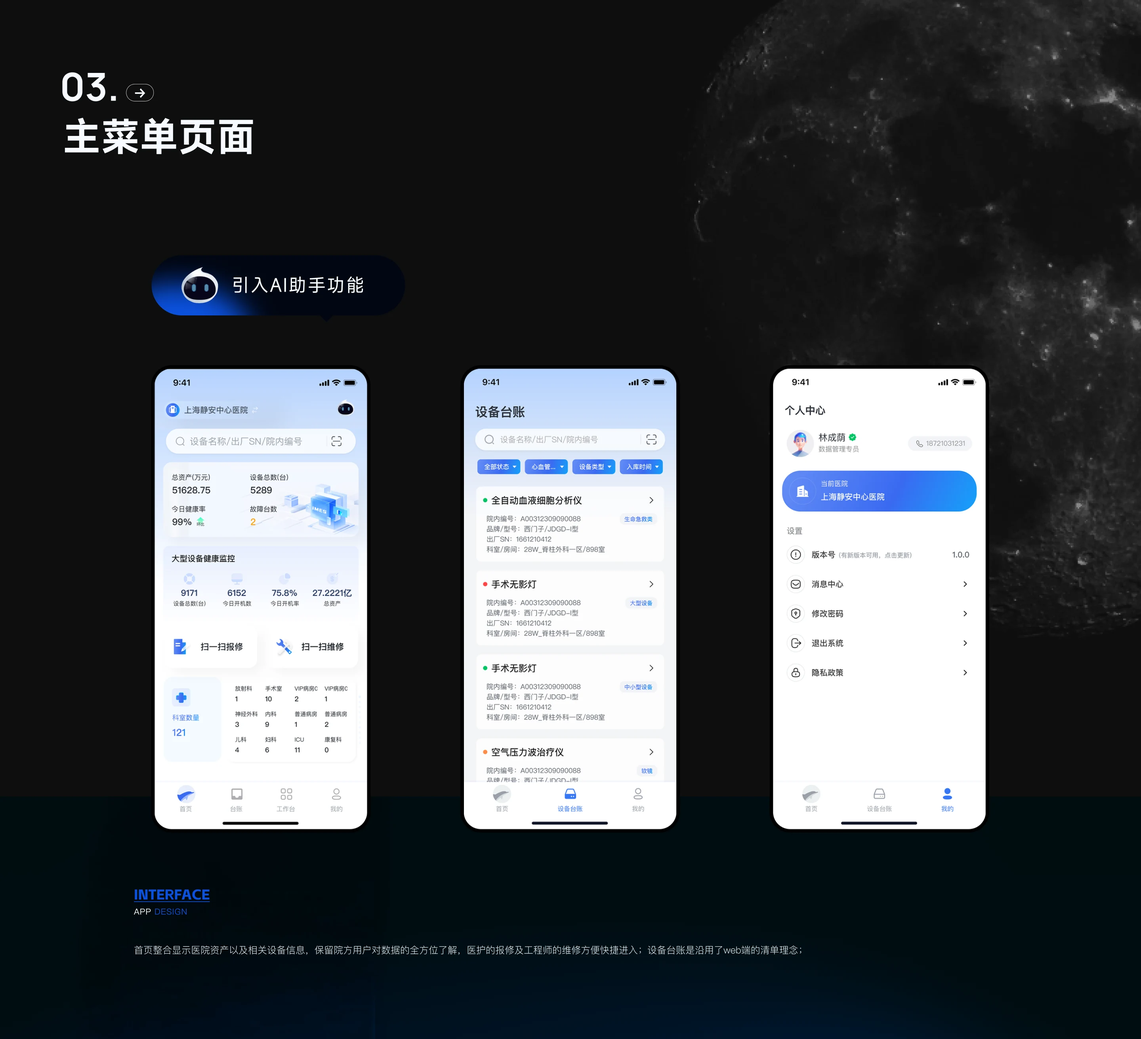
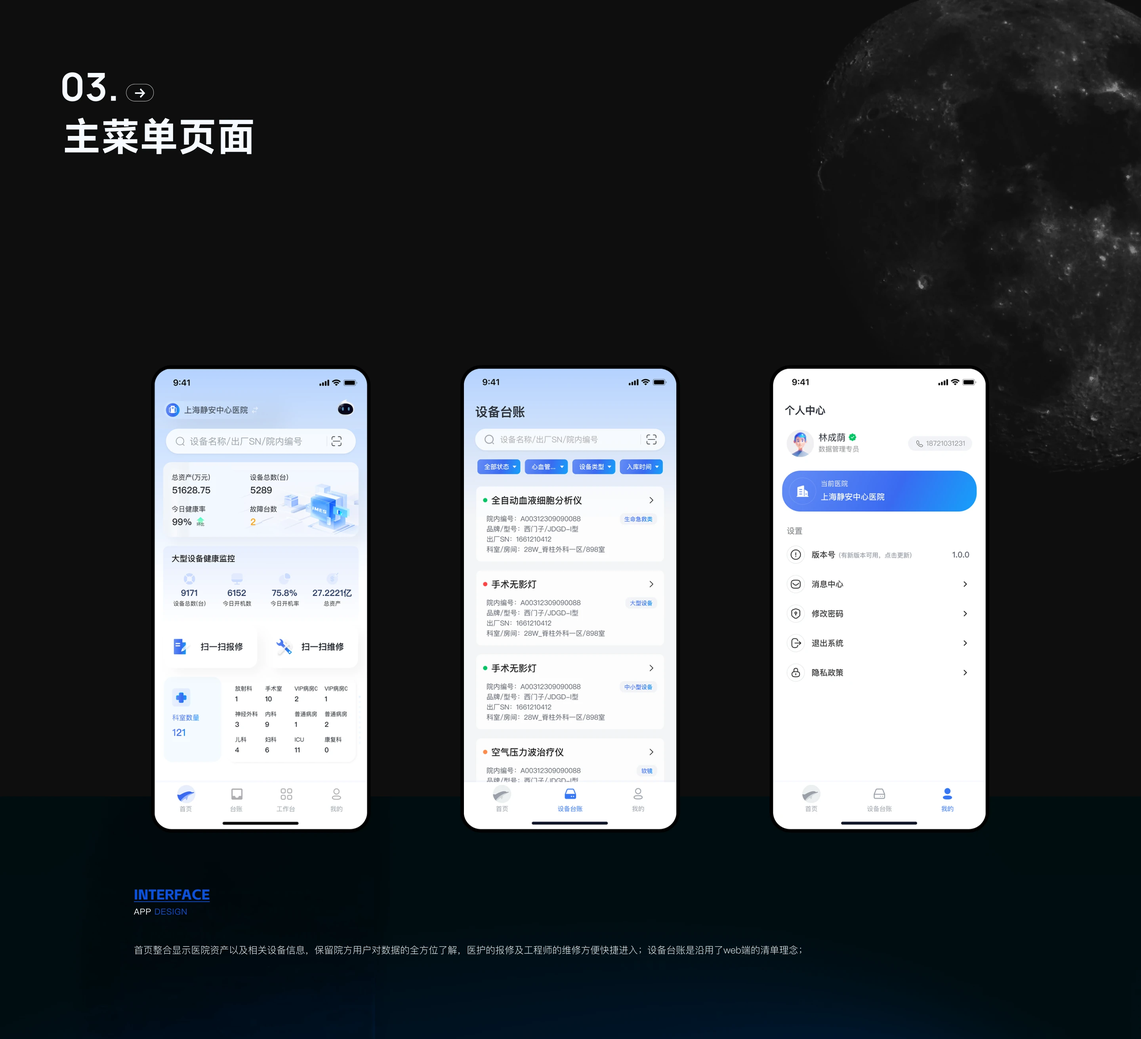
darkandaigif

diff --git a/index.html b/index.html
@@ -11,11 +11,11 @@
 
 <style media="all">*,:before,:after{box-sizing:border-box}body{-webkit-font-smoothing:antialiased}textarea:focus-visible{outline:none}button{-webkit-font-smoothing:inherit;-moz-osx-font-smoothing:inherit;-webkit-appearance:none}*{margin:0;padding:0}a{color:inherit;-webkit-text-decoration:inherit;text-decoration:inherit}input{font:inherit;background-color:inherit;border:none;outline:none}button{font:inherit;color:inherit;background:0 0;border-style:none;width:auto;line-height:normal;overflow:visible}textarea,select{font:inherit;background-color:inherit}img,picture,video,canvas,svg{display:block}[data-reaction-click]{cursor:pointer}[data-visible=false]{display:none!important}.before-hidden:before,.after-hidden:after{display:none}.before-visible:before,.after-visible:after{content:""}::placeholder{color:inherit;opacity:.54}body *{scrollbar-width:none}body ::-webkit-scrollbar{display:none}[name=honey-pot-field]{display:none!important}.text{white-space:pre-wrap;overflow-wrap:break-word}.pointer-events-none{pointer-events:none}</style>
 
-<style>#_{min-height:100vh;display:grid}#Merlin_2025_{border-radius:0;flex-flow:column;justify-content:flex-start;align-items:start;row-gap:0;width:100%;margin:0 auto 0 0;padding:0;display:flex;position:relative}#_100_{--f2w-order:0;aspect-ratio:1.78;border-radius:0;flex-shrink:0;width:auto;height:810px;margin:0;position:relative;overflow:hidden}#__0{object-fit:cover;width:100%;height:100%;position:absolute;inset:0}#_200_{--f2w-order:1;aspect-ratio:1.63;border-radius:0;flex-shrink:0;width:auto;height:884px;margin:0;position:relative;overflow:hidden}#__1{object-fit:cover;width:100%;height:100%;position:absolute;inset:0}#_300_{--f2w-order:2;aspect-ratio:1.37;border-radius:0;flex-shrink:0;width:auto;height:1050px;margin:0;position:relative;overflow:hidden}#__2{object-fit:cover;width:100%;height:100%;position:absolute;inset:0}#_401{--f2w-order:3;aspect-ratio:1.52;border-radius:0;flex-shrink:0;width:auto;height:945px;margin:0;position:relative;overflow:hidden}#__3{object-fit:cover;width:100%;height:100%;position:absolute;inset:0}#_402{--f2w-order:4;aspect-ratio:1.78;border-radius:0;flex-shrink:0;width:auto;height:810px;margin:0;position:relative;overflow:hidden}#__4{object-fit:cover;width:100%;height:100%;position:absolute;inset:0}#_403{--f2w-order:5;aspect-ratio:1.71;border-radius:0;flex-shrink:0;width:auto;height:840px;margin:0;position:relative;overflow:hidden}#__5{object-fit:cover;width:100%;height:100%;position:absolute;inset:0}#_404{--f2w-order:6;aspect-ratio:1.51;border-radius:0;flex-shrink:0;width:auto;height:956px;margin:0;position:relative;overflow:hidden}#__6{object-fit:cover;width:100%;height:100%;position:absolute;inset:0}#_405{--f2w-order:7;aspect-ratio:1.73;border-radius:0;flex-shrink:0;width:auto;height:832px;margin:0;position:relative;overflow:hidden}#__7{object-fit:cover;width:100%;height:100%;position:absolute;inset:0}#_406{--f2w-order:8;aspect-ratio:1.53;border-radius:0;flex-shrink:0;width:auto;height:944px;margin:0;position:relative;overflow:hidden}#__8{object-fit:cover;width:100%;height:100%;position:absolute;inset:0}#_407{--f2w-order:9;aspect-ratio:1.71;border-radius:0;flex-shrink:0;width:auto;height:840px;margin:0;position:relative;overflow:hidden}#__9{object-fit:cover;width:100%;height:100%;position:absolute;inset:0}#_408{--f2w-order:10;aspect-ratio:15.16;border-radius:0;flex-shrink:0;width:auto;height:95px;margin:0;position:relative;overflow:hidden}#__10{object-fit:cover;width:100%;height:100%;position:absolute;inset:0}#_409{--f2w-order:11;aspect-ratio:1.71;border-radius:0;flex-shrink:0;width:auto;height:840px;margin:0;position:relative;overflow:hidden}#__11{object-fit:cover;width:100%;height:100%;position:absolute;inset:0}#_410{--f2w-order:12;aspect-ratio:.96;border-radius:0;flex-shrink:0;width:auto;height:1500px;margin:0;position:relative;overflow:hidden}#__12{object-fit:cover;width:100%;height:100%;position:absolute;inset:0}#_411{--f2w-order:13;aspect-ratio:1.62;border-radius:0;flex-shrink:0;width:auto;height:889px;margin:0;position:relative;overflow:hidden}#__13{object-fit:cover;width:100%;height:100%;position:absolute;inset:0}#_412{--f2w-order:14;aspect-ratio:1.8;border-radius:0;flex-shrink:0;width:auto;height:800px;margin:0;position:relative;overflow:hidden}#__14{object-fit:cover;width:100%;height:100%;position:absolute;inset:0}#_413{--f2w-order:15;aspect-ratio:1.97;border-radius:0;flex-shrink:0;width:auto;height:730px;margin:0;position:relative;overflow:hidden}#__15{object-fit:cover;width:100%;height:100%;position:absolute;inset:0}#_414{--f2w-order:16;aspect-ratio:1.41;border-radius:0;flex-shrink:0;width:auto;height:1020px;margin:0;position:relative;overflow:hidden}#__16{object-fit:cover;width:100%;height:100%;position:absolute;inset:0}#_415{--f2w-order:17;aspect-ratio:1.44;border-radius:0;flex-shrink:0;width:auto;height:1000px;margin:0;position:relative;overflow:hidden}#__17{object-fit:cover;width:100%;height:100%;position:absolute;inset:0}#_416{--f2w-order:18;aspect-ratio:1.66;border-radius:0;flex-shrink:0;width:auto;height:866px;margin:0;position:relative;overflow:hidden}#__18{object-fit:cover;width:100%;height:100%;position:absolute;inset:0}#_417{--f2w-order:19;aspect-ratio:1.8;border-radius:0;flex-shrink:0;width:auto;height:800px;margin:0;position:relative;overflow:hidden}#__19{object-fit:cover;width:100%;height:100%;position:absolute;inset:0}#_418{--f2w-order:20;aspect-ratio:2.11;border-radius:0;flex-shrink:0;width:auto;height:681px;margin:0;position:relative;overflow:hidden}#__20{object-fit:cover;width:100%;height:100%;position:absolute;inset:0}#_500_{--f2w-order:21;aspect-ratio:1.37;border-radius:0;flex-shrink:0;width:auto;height:1050px;margin:0;position:relative;overflow:hidden}#__21{object-fit:cover;width:100%;height:100%;position:absolute;inset:0}#_601{--f2w-order:22;aspect-ratio:1.78;border-radius:0;flex-shrink:0;width:auto;height:810px;margin:0;position:relative;overflow:hidden}#__22{object-fit:cover;width:100%;height:100%;position:absolute;inset:0}#_602{--f2w-order:23;aspect-ratio:1.78;border-radius:0;flex-shrink:0;width:auto;height:810px;margin:0;position:relative;overflow:hidden}#__23{object-fit:cover;width:100%;height:100%;position:absolute;inset:0}#_603{--f2w-order:24;aspect-ratio:1.78;border-radius:0;flex-shrink:0;width:auto;height:810px;margin:0;position:relative;overflow:hidden}#__24{object-fit:cover;width:100%;height:100%;position:absolute;inset:0}#_604{--f2w-order:25;aspect-ratio:1.78;border-radius:0;flex-shrink:0;width:auto;height:810px;margin:0;position:relative;overflow:hidden}#__25{object-fit:cover;width:100%;height:100%;position:absolute;inset:0}#_605{--f2w-order:26;aspect-ratio:1.78;border-radius:0;flex-shrink:0;width:auto;height:810px;margin:0;position:relative;overflow:hidden}#__26{object-fit:cover;width:100%;height:100%;position:absolute;inset:0}#_606{--f2w-order:27;aspect-ratio:1.78;border-radius:0;flex-shrink:0;width:auto;height:810px;margin:0;position:relative;overflow:hidden}#__27{object-fit:cover;width:100%;height:100%;position:absolute;inset:0}#_607{--f2w-order:28;aspect-ratio:1.01;border-radius:0;flex-shrink:0;width:auto;height:1426px;margin:0;position:relative;overflow:hidden}#__28{object-fit:cover;width:100%;height:100%;position:absolute;inset:0}#_608{--f2w-order:29;aspect-ratio:1.35;border-radius:0;flex-shrink:0;width:auto;height:1069px;margin:0;position:relative;overflow:hidden}#__29{object-fit:cover;width:100%;height:100%;position:absolute;inset:0}#_609{--f2w-order:30;aspect-ratio:1.09;border-radius:0;flex-shrink:0;width:auto;height:1325px;margin:0;position:relative;overflow:hidden}#__30{object-fit:cover;width:100%;height:100%;position:absolute;inset:0}#_610{--f2w-order:31;aspect-ratio:1.08;border-radius:0;flex-shrink:0;width:auto;height:1335px;margin:0;position:relative;overflow:hidden}#__31{object-fit:cover;width:100%;height:100%;position:absolute;inset:0}#_611{--f2w-order:32;aspect-ratio:1.1;border-radius:0;flex-shrink:0;width:auto;height:1311px;margin:0;position:relative;overflow:hidden}#__32{object-fit:cover;width:100%;height:100%;position:absolute;inset:0}#_612{--f2w-order:33;aspect-ratio:1.33;border-radius:0;flex-shrink:0;width:auto;height:1083px;margin:0;position:relative;overflow:hidden}#__33{object-fit:cover;width:100%;height:100%;position:absolute;inset:0}#_613{--f2w-order:34;aspect-ratio:1.08;border-radius:0;flex-shrink:0;width:auto;height:1334px;margin:0;position:relative;overflow:hidden}#__34{object-fit:cover;width:100%;height:100%;position:absolute;inset:0}#_614{--f2w-order:35;aspect-ratio:1.44;border-radius:0;flex-shrink:0;width:auto;height:1000px;margin:0;position:relative;overflow:hidden}#__35{object-fit:cover;width:100%;height:100%;position:absolute;inset:0}#_615{--f2w-order:36;aspect-ratio:1.47;border-radius:0;flex-shrink:0;width:auto;height:977px;margin:0;position:relative;overflow:hidden}#__36{object-fit:cover;width:100%;height:100%;position:absolute;inset:0}#_616{--f2w-order:37;aspect-ratio:1.78;border-radius:0;flex-shrink:0;width:auto;height:810px;margin:0;position:relative;overflow:hidden}#__37{object-fit:cover;width:100%;height:100%;position:absolute;inset:0}#_617{--f2w-order:38;aspect-ratio:1.54;border-radius:0;flex-shrink:0;width:auto;height:938px;margin:0;position:relative;overflow:hidden}#__38{object-fit:cover;width:100%;height:100%;position:absolute;inset:0}#_700_{--f2w-order:39;aspect-ratio:1.37;border-radius:0;flex-shrink:0;width:auto;height:1050px;margin:0;position:relative;overflow:hidden}#__39{object-fit:cover;width:100%;height:100%;position:absolute;inset:0}#_801{--f2w-order:40;aspect-ratio:1.08;border-radius:0;flex-shrink:0;width:auto;height:1337px;margin:0;position:relative;overflow:hidden}#__40{object-fit:cover;width:100%;height:100%;position:absolute;inset:0}#_802{--f2w-order:41;aspect-ratio:1.11;border-radius:0;flex-shrink:0;width:auto;height:1297px;margin:0;position:relative;overflow:hidden}#__41{object-fit:cover;width:100%;height:100%;position:absolute;inset:0}#_803{--f2w-order:42;aspect-ratio:1.59;border-radius:0;flex-shrink:0;width:auto;height:903px;margin:0;position:relative;overflow:hidden}#__42{object-fit:cover;width:100%;height:100%;position:absolute;inset:0}#_804{--f2w-order:43;aspect-ratio:1.8;border-radius:0;flex-shrink:0;width:auto;height:802px;margin:0;position:relative;overflow:hidden}#__43{object-fit:cover;width:100%;height:100%;position:absolute;inset:0}#_805{--f2w-order:44;aspect-ratio:1.6;border-radius:0;flex-shrink:0;width:auto;height:900px;margin:0;position:relative;overflow:hidden}#__44{object-fit:cover;width:100%;height:100%;position:absolute;inset:0}#_806{--f2w-order:45;aspect-ratio:1.78;border-radius:0;flex-shrink:0;width:auto;height:810px;margin:0;position:relative;overflow:hidden}#__45{object-fit:cover;width:100%;height:100%;position:absolute;inset:0}#_807{--f2w-order:46;aspect-ratio:1.67;border-radius:0;flex-shrink:0;width:auto;height:863px;margin:0;position:relative;overflow:hidden}#__46{object-fit:cover;width:100%;height:100%;position:absolute;inset:0}#_808{--f2w-order:47;aspect-ratio:1.19;border-radius:0;flex-shrink:0;width:auto;height:1209px;margin:0;position:relative;overflow:hidden}#__47{object-fit:cover;width:100%;height:100%;position:absolute;inset:0}#_809{--f2w-order:48;aspect-ratio:1.07;border-radius:0;flex-shrink:0;width:auto;height:1344px;margin:0;position:relative;overflow:hidden}#__48{object-fit:cover;width:100%;height:100%;position:absolute;inset:0}#_810{--f2w-order:0;aspect-ratio:1.44;border-radius:0;flex-shrink:0;width:auto;height:1000px;margin:0;position:relative;overflow:hidden}#__49{object-fit:cover;width:100%;height:100%;position:absolute;inset:0}#_811{--f2w-order:1;aspect-ratio:1.52;border-radius:0;flex-shrink:0;width:auto;height:946px;margin:0;position:relative;overflow:hidden}#__50{object-fit:cover;width:100%;height:100%;position:absolute;inset:0}#_812{--f2w-order:2;aspect-ratio:2.04;border-radius:0;flex-shrink:0;width:auto;height:705px;margin:0;position:relative;overflow:hidden}#__51{object-fit:cover;width:100%;height:100%;position:absolute;inset:0}#_813{--f2w-order:3;aspect-ratio:1.8;border-radius:0;flex-shrink:0;width:auto;height:800px;margin:0;position:relative;overflow:hidden}#__52{object-fit:cover;width:100%;height:100%;position:absolute;inset:0}#_814{--f2w-order:4;aspect-ratio:1.66;border-radius:0;flex-shrink:0;width:auto;height:869px;margin:0;position:relative;overflow:hidden}#__53{object-fit:cover;width:100%;height:100%;position:absolute;inset:0}#_900_{--f2w-order:5;aspect-ratio:1.37;border-radius:0;flex-shrink:0;width:auto;height:1050px;margin:0;position:relative;overflow:hidden}#__54{object-fit:cover;width:100%;height:100%;position:absolute;inset:0}#_1001{--f2w-order:6;aspect-ratio:1.78;border-radius:0;flex-shrink:0;width:auto;height:810px;margin:0;position:relative;overflow:hidden}#__55{object-fit:cover;width:100%;height:100%;position:absolute;inset:0}#_1002{--f2w-order:7;aspect-ratio:1.8;border-radius:0;flex-shrink:0;width:auto;height:800px;margin:0;position:relative;overflow:hidden}#__56{object-fit:cover;width:100%;height:100%;position:absolute;inset:0}#_1003{--f2w-order:8;aspect-ratio:1.88;border-radius:0;flex-shrink:0;width:auto;height:768px;margin:0;position:relative;overflow:hidden}#__57{object-fit:cover;width:100%;height:100%;position:absolute;inset:0}#_1004{--f2w-order:9;aspect-ratio:2.04;border-radius:0;flex-shrink:0;width:auto;height:705px;margin:0;position:relative;overflow:hidden}#__58{object-fit:cover;width:100%;height:100%;position:absolute;inset:0}#_1005{--f2w-order:10;aspect-ratio:1.91;border-radius:0;flex-shrink:0;width:auto;height:753px;margin:0;position:relative;overflow:hidden}#__59{object-fit:cover;width:100%;height:100%;position:absolute;inset:0}#_1006{--f2w-order:11;aspect-ratio:1.91;border-radius:0;flex-shrink:0;width:auto;height:754px;margin:0;position:relative;overflow:hidden}#__60{object-fit:cover;width:100%;height:100%;position:absolute;inset:0}#_1007{--f2w-order:12;aspect-ratio:1.63;border-radius:0;flex-shrink:0;width:auto;height:884px;margin:0;position:relative;overflow:hidden}#__61{object-fit:cover;width:100%;height:100%;position:absolute;inset:0}#_1008{--f2w-order:13;aspect-ratio:1.8;border-radius:0;flex-shrink:0;width:auto;height:800px;margin:0;position:relative;overflow:hidden}#__62{object-fit:cover;width:100%;height:100%;position:absolute;inset:0}#_1100_{--f2w-order:14;aspect-ratio:1.78;border-radius:0;flex-shrink:0;width:auto;height:810px;margin:0;position:relative;overflow:hidden}#__63{object-fit:cover;width:100%;height:100%;position:absolute;inset:0}#_201_{--f2w-order:0;background-color:#000;border-radius:0;flex-shrink:0;width:100%;height:884px;margin:0;position:relative;overflow:hidden}#Frame_1{--f2w-order:0;border-radius:0;width:1440px;height:885px;position:absolute;top:0;left:0}#folio02line{--f2w-order:0;aspect-ratio:1.63;border-radius:0;width:auto;height:885px;position:absolute;top:0;left:0;overflow:hidden}#__0{object-fit:cover;width:100%;height:100%;position:absolute;inset:0}#folio02mail{--f2w-order:1;aspect-ratio:1;border-radius:0;width:auto;height:22.5px;position:absolute;top:82.1px;right:500.3px;overflow:hidden}#__1S{object-fit:cover;width:100%;height:100%;position:absolute;inset:0}#folio02phone{--f2w-order:2;aspect-ratio:1;border-radius:0;width:auto;height:22.5px;position:absolute;top:82.1px;left:1239px;overflow:hidden}#__2S{object-fit:cover;width:100%;height:100%;position:absolute;inset:0}#_200_2{--f2w-order:3;aspect-ratio:1.63;border-radius:0;width:auto;height:884px;position:absolute;top:0;left:calc(50% - 720px);overflow:hidden}#__3S{object-fit:cover;width:100%;height:100%;position:absolute;inset:0}#_4011{--f2w-order:1;background-color:#000;border-radius:0;flex-shrink:0;width:100%;height:944px;margin:0;position:relative;overflow:hidden}#_4011_1{--f2w-order:0;aspect-ratio:1.52;border-radius:0;width:auto;height:945px;position:absolute;top:0;left:0;overflow:hidden}#__4{object-fit:cover;width:100%;height:100%;position:absolute;inset:0}#folio32weblogo2{--f2w-order:1;aspect-ratio:1;border-radius:0;width:8%;height:auto;position:absolute;top:calc(50% - 47.5px);left:39.3%;right:52.7%;overflow:hidden}#__5{object-fit:cover;width:100%;height:100%;position:absolute;inset:0}#_8051{--f2w-order:2;background-color:#fff;border-radius:0;flex-shrink:0;width:100%;height:900px;margin:0;position:relative;overflow:hidden}#_0805_1{--f2w-order:0;aspect-ratio:1.6;border-radius:0;width:auto;height:900px;position:absolute;top:0;left:0;overflow:hidden}#__6S{object-fit:cover;width:100%;height:100%;position:absolute;inset:0}#folio23ABC{--f2w-order:1;aspect-ratio:3.52;border-radius:0;width:auto;height:180px;position:absolute;top:315px;left:717.8px;overflow:hidden}#__7S{object-fit:cover;width:100%;height:100%;position:absolute;inset:0}#folioloading{--f2w-order:1;aspect-ratio:3.52;border-radius:0;width:170px;height:170px;position:absolute;top:465px;left:1035px;overflow:hidden}#__8S{object-fit:cover;width:100%;height:100%;position:absolute;inset:0}</style>
+<style>#_{min-height:100vh;display:grid}#Merlin_2025_{border-radius:0;flex-flow:column;justify-content:flex-start;align-items:start;row-gap:0;width:100%;margin:0 auto 0 0;padding:0;display:flex;position:relative}#_100_{--f2w-order:0;aspect-ratio:1.78;border-radius:0;flex-shrink:0;width:auto;height:810px;margin:0;position:relative;overflow:hidden}#__0{object-fit:cover;width:100%;height:100%;position:absolute;inset:0}#_200_{--f2w-order:1;aspect-ratio:1.63;border-radius:0;flex-shrink:0;width:auto;height:884px;margin:0;position:relative;overflow:hidden}#__1{object-fit:cover;width:100%;height:100%;position:absolute;inset:0}#_300_{--f2w-order:2;aspect-ratio:1.37;border-radius:0;flex-shrink:0;width:auto;height:1050px;margin:0;position:relative;overflow:hidden}#__2{object-fit:cover;width:100%;height:100%;position:absolute;inset:0}#_401{--f2w-order:3;aspect-ratio:1.52;border-radius:0;flex-shrink:0;width:auto;height:945px;margin:0;position:relative;overflow:hidden}#__3{object-fit:cover;width:100%;height:100%;position:absolute;inset:0}#_402{--f2w-order:4;aspect-ratio:1.78;border-radius:0;flex-shrink:0;width:auto;height:810px;margin:0;position:relative;overflow:hidden}#__4{object-fit:cover;width:100%;height:100%;position:absolute;inset:0}#_403{--f2w-order:5;aspect-ratio:1.71;border-radius:0;flex-shrink:0;width:auto;height:840px;margin:0;position:relative;overflow:hidden}#__5{object-fit:cover;width:100%;height:100%;position:absolute;inset:0}#_404{--f2w-order:6;aspect-ratio:1.51;border-radius:0;flex-shrink:0;width:auto;height:956px;margin:0;position:relative;overflow:hidden}#__6{object-fit:cover;width:100%;height:100%;position:absolute;inset:0}#_405{--f2w-order:7;aspect-ratio:1.73;border-radius:0;flex-shrink:0;width:auto;height:832px;margin:0;position:relative;overflow:hidden}#__7{object-fit:cover;width:100%;height:100%;position:absolute;inset:0}#_406{--f2w-order:8;aspect-ratio:1.53;border-radius:0;flex-shrink:0;width:auto;height:944px;margin:0;position:relative;overflow:hidden}#__8{object-fit:cover;width:100%;height:100%;position:absolute;inset:0}#_407{--f2w-order:9;aspect-ratio:1.71;border-radius:0;flex-shrink:0;width:auto;height:840px;margin:0;position:relative;overflow:hidden}#__9{object-fit:cover;width:100%;height:100%;position:absolute;inset:0}#_408{--f2w-order:10;aspect-ratio:15.16;border-radius:0;flex-shrink:0;width:auto;height:95px;margin:0;position:relative;overflow:hidden}#__10{object-fit:cover;width:100%;height:100%;position:absolute;inset:0}#_409{--f2w-order:11;aspect-ratio:1.71;border-radius:0;flex-shrink:0;width:auto;height:840px;margin:0;position:relative;overflow:hidden}#__11{object-fit:cover;width:100%;height:100%;position:absolute;inset:0}#_410{--f2w-order:12;aspect-ratio:.96;border-radius:0;flex-shrink:0;width:auto;height:1500px;margin:0;position:relative;overflow:hidden}#__12{object-fit:cover;width:100%;height:100%;position:absolute;inset:0}#_411{--f2w-order:13;aspect-ratio:1.62;border-radius:0;flex-shrink:0;width:auto;height:889px;margin:0;position:relative;overflow:hidden}#__13{object-fit:cover;width:100%;height:100%;position:absolute;inset:0}#_412{--f2w-order:14;aspect-ratio:1.8;border-radius:0;flex-shrink:0;width:auto;height:800px;margin:0;position:relative;overflow:hidden}#__14{object-fit:cover;width:100%;height:100%;position:absolute;inset:0}#_413{--f2w-order:15;aspect-ratio:1.97;border-radius:0;flex-shrink:0;width:auto;height:730px;margin:0;position:relative;overflow:hidden}#__15{object-fit:cover;width:100%;height:100%;position:absolute;inset:0}#_414{--f2w-order:16;aspect-ratio:1.41;border-radius:0;flex-shrink:0;width:auto;height:1020px;margin:0;position:relative;overflow:hidden}#__16{object-fit:cover;width:100%;height:100%;position:absolute;inset:0}#_415{--f2w-order:17;aspect-ratio:1.44;border-radius:0;flex-shrink:0;width:auto;height:1000px;margin:0;position:relative;overflow:hidden}#__17{object-fit:cover;width:100%;height:100%;position:absolute;inset:0}#_416{--f2w-order:18;aspect-ratio:1.66;border-radius:0;flex-shrink:0;width:auto;height:866px;margin:0;position:relative;overflow:hidden}#__18{object-fit:cover;width:100%;height:100%;position:absolute;inset:0}#_417{--f2w-order:19;aspect-ratio:1.8;border-radius:0;flex-shrink:0;width:auto;height:800px;margin:0;position:relative;overflow:hidden}#__19{object-fit:cover;width:100%;height:100%;position:absolute;inset:0}#_418{--f2w-order:20;aspect-ratio:2.11;border-radius:0;flex-shrink:0;width:auto;height:681px;margin:0;position:relative;overflow:hidden}#__20{object-fit:cover;width:100%;height:100%;position:absolute;inset:0}#_500_{--f2w-order:21;aspect-ratio:1.37;border-radius:0;flex-shrink:0;width:auto;height:1050px;margin:0;position:relative;overflow:hidden}#__21{object-fit:cover;width:100%;height:100%;position:absolute;inset:0}#_601{--f2w-order:22;aspect-ratio:1.78;border-radius:0;flex-shrink:0;width:auto;height:810px;margin:0;position:relative;overflow:hidden}#__22{object-fit:cover;width:100%;height:100%;position:absolute;inset:0}#_602{--f2w-order:23;aspect-ratio:1.78;border-radius:0;flex-shrink:0;width:auto;height:810px;margin:0;position:relative;overflow:hidden}#__23{object-fit:cover;width:100%;height:100%;position:absolute;inset:0}#_603{--f2w-order:24;aspect-ratio:1.78;border-radius:0;flex-shrink:0;width:auto;height:810px;margin:0;position:relative;overflow:hidden}#__24{object-fit:cover;width:100%;height:100%;position:absolute;inset:0}#_604{--f2w-order:25;aspect-ratio:1.78;border-radius:0;flex-shrink:0;width:auto;height:810px;margin:0;position:relative;overflow:hidden}#__25{object-fit:cover;width:100%;height:100%;position:absolute;inset:0}#_605{--f2w-order:26;aspect-ratio:1.78;border-radius:0;flex-shrink:0;width:auto;height:810px;margin:0;position:relative;overflow:hidden}#__26{object-fit:cover;width:100%;height:100%;position:absolute;inset:0}#_606{--f2w-order:27;aspect-ratio:1.78;border-radius:0;flex-shrink:0;width:auto;height:810px;margin:0;position:relative;overflow:hidden}#__27{object-fit:cover;width:100%;height:100%;position:absolute;inset:0}#_607{--f2w-order:28;aspect-ratio:1.01;border-radius:0;flex-shrink:0;width:auto;height:1426px;margin:0;position:relative;overflow:hidden}#__28{object-fit:cover;width:100%;height:100%;position:absolute;inset:0}#_608{--f2w-order:29;aspect-ratio:1.35;border-radius:0;flex-shrink:0;width:auto;height:1069px;margin:0;position:relative;overflow:hidden}#__29{object-fit:cover;width:100%;height:100%;position:absolute;inset:0}#_609{--f2w-order:30;aspect-ratio:1.09;border-radius:0;flex-shrink:0;width:auto;height:1325px;margin:0;position:relative;overflow:hidden}#__30{object-fit:cover;width:100%;height:100%;position:absolute;inset:0}#_610{--f2w-order:31;aspect-ratio:1.08;border-radius:0;flex-shrink:0;width:auto;height:1335px;margin:0;position:relative;overflow:hidden}#__31{object-fit:cover;width:100%;height:100%;position:absolute;inset:0}#_611{--f2w-order:32;aspect-ratio:1.1;border-radius:0;flex-shrink:0;width:auto;height:1311px;margin:0;position:relative;overflow:hidden}#__32{object-fit:cover;width:100%;height:100%;position:absolute;inset:0}#_612{--f2w-order:33;aspect-ratio:1.33;border-radius:0;flex-shrink:0;width:auto;height:1083px;margin:0;position:relative;overflow:hidden}#__33{object-fit:cover;width:100%;height:100%;position:absolute;inset:0}#_613{--f2w-order:34;aspect-ratio:1.08;border-radius:0;flex-shrink:0;width:auto;height:1334px;margin:0;position:relative;overflow:hidden}#__34{object-fit:cover;width:100%;height:100%;position:absolute;inset:0}#_614{--f2w-order:35;aspect-ratio:1.44;border-radius:0;flex-shrink:0;width:auto;height:1000px;margin:0;position:relative;overflow:hidden}#__35{object-fit:cover;width:100%;height:100%;position:absolute;inset:0}#_615{--f2w-order:36;aspect-ratio:1.47;border-radius:0;flex-shrink:0;width:auto;height:977px;margin:0;position:relative;overflow:hidden}#__36{object-fit:cover;width:100%;height:100%;position:absolute;inset:0}#_616{--f2w-order:37;aspect-ratio:1.78;border-radius:0;flex-shrink:0;width:auto;height:810px;margin:0;position:relative;overflow:hidden}#__37{object-fit:cover;width:100%;height:100%;position:absolute;inset:0}#_617{--f2w-order:38;aspect-ratio:1.54;border-radius:0;flex-shrink:0;width:auto;height:938px;margin:0;position:relative;overflow:hidden}#__38{object-fit:cover;width:100%;height:100%;position:absolute;inset:0}#_700_{--f2w-order:39;aspect-ratio:1.37;border-radius:0;flex-shrink:0;width:auto;height:1050px;margin:0;position:relative;overflow:hidden}#__39{object-fit:cover;width:100%;height:100%;position:absolute;inset:0}#_801{--f2w-order:40;aspect-ratio:1.08;border-radius:0;flex-shrink:0;width:auto;height:1337px;margin:0;position:relative;overflow:hidden}#__40{object-fit:cover;width:100%;height:100%;position:absolute;inset:0}#_802{--f2w-order:41;aspect-ratio:1.11;border-radius:0;flex-shrink:0;width:auto;height:1297px;margin:0;position:relative;overflow:hidden}#__41{object-fit:cover;width:100%;height:100%;position:absolute;inset:0}#_803{--f2w-order:42;aspect-ratio:1.59;border-radius:0;flex-shrink:0;width:auto;height:903px;margin:0;position:relative;overflow:hidden}#__42{object-fit:cover;width:100%;height:100%;position:absolute;inset:0}#_804{--f2w-order:43;aspect-ratio:1.8;border-radius:0;flex-shrink:0;width:auto;height:802px;margin:0;position:relative;overflow:hidden}#__43{object-fit:cover;width:100%;height:100%;position:absolute;inset:0}#_805{--f2w-order:44;aspect-ratio:1.6;border-radius:0;flex-shrink:0;width:auto;height:900px;margin:0;position:relative;overflow:hidden}#__44{object-fit:cover;width:100%;height:100%;position:absolute;inset:0}#_806{--f2w-order:45;aspect-ratio:1.78;border-radius:0;flex-shrink:0;width:auto;height:810px;margin:0;position:relative;overflow:hidden}#__45{object-fit:cover;width:100%;height:100%;position:absolute;inset:0}#_807{--f2w-order:46;aspect-ratio:1.67;border-radius:0;flex-shrink:0;width:auto;height:863px;margin:0;position:relative;overflow:hidden}#__46{object-fit:cover;width:100%;height:100%;position:absolute;inset:0}#_808{--f2w-order:47;aspect-ratio:1.19;border-radius:0;flex-shrink:0;width:auto;height:1209px;margin:0;position:relative;overflow:hidden}#__47{object-fit:cover;width:100%;height:100%;position:absolute;inset:0}#_809{--f2w-order:48;aspect-ratio:1.07;border-radius:0;flex-shrink:0;width:auto;height:1344px;margin:0;position:relative;overflow:hidden}#__48{object-fit:cover;width:100%;height:100%;position:absolute;inset:0}#_810{--f2w-order:0;aspect-ratio:1.44;border-radius:0;flex-shrink:0;width:auto;height:1000px;margin:0;position:relative;overflow:hidden}#__49{object-fit:cover;width:100%;height:100%;position:absolute;inset:0}#_811{--f2w-order:1;aspect-ratio:1.52;border-radius:0;flex-shrink:0;width:auto;height:946px;margin:0;position:relative;overflow:hidden}#__50{object-fit:cover;width:100%;height:100%;position:absolute;inset:0}#_812{--f2w-order:2;aspect-ratio:2.04;border-radius:0;flex-shrink:0;width:auto;height:705px;margin:0;position:relative;overflow:hidden}#__51{object-fit:cover;width:100%;height:100%;position:absolute;inset:0}#_813{--f2w-order:3;aspect-ratio:1.8;border-radius:0;flex-shrink:0;width:auto;height:800px;margin:0;position:relative;overflow:hidden}#__52{object-fit:cover;width:100%;height:100%;position:absolute;inset:0}#_814{--f2w-order:4;aspect-ratio:1.66;border-radius:0;flex-shrink:0;width:auto;height:869px;margin:0;position:relative;overflow:hidden}#__53{object-fit:cover;width:100%;height:100%;position:absolute;inset:0}#_900_{--f2w-order:5;aspect-ratio:1.37;border-radius:0;flex-shrink:0;width:auto;height:1050px;margin:0;position:relative;overflow:hidden}#__54{object-fit:cover;width:100%;height:100%;position:absolute;inset:0}#_1001{--f2w-order:6;aspect-ratio:1.78;border-radius:0;flex-shrink:0;width:auto;height:810px;margin:0;position:relative;overflow:hidden}#__55{object-fit:cover;width:100%;height:100%;position:absolute;inset:0}#_1002{--f2w-order:7;aspect-ratio:1.8;border-radius:0;flex-shrink:0;width:auto;height:800px;margin:0;position:relative;overflow:hidden}#__56{object-fit:cover;width:100%;height:100%;position:absolute;inset:0}#_1003{--f2w-order:8;aspect-ratio:1.88;border-radius:0;flex-shrink:0;width:auto;height:768px;margin:0;position:relative;overflow:hidden}#__57{object-fit:cover;width:100%;height:100%;position:absolute;inset:0}#_1004{--f2w-order:9;aspect-ratio:2.04;border-radius:0;flex-shrink:0;width:auto;height:705px;margin:0;position:relative;overflow:hidden}#__58{object-fit:cover;width:100%;height:100%;position:absolute;inset:0}#_1005{--f2w-order:10;aspect-ratio:1.91;border-radius:0;flex-shrink:0;width:auto;height:753px;margin:0;position:relative;overflow:hidden}#__59{object-fit:cover;width:100%;height:100%;position:absolute;inset:0}#_1006{--f2w-order:11;aspect-ratio:1.91;border-radius:0;flex-shrink:0;width:auto;height:754px;margin:0;position:relative;overflow:hidden}#__60{object-fit:cover;width:100%;height:100%;position:absolute;inset:0}#_1007{--f2w-order:12;aspect-ratio:1.63;border-radius:0;flex-shrink:0;width:auto;height:884px;margin:0;position:relative;overflow:hidden}#__61{object-fit:cover;width:100%;height:100%;position:absolute;inset:0}#_1008{--f2w-order:13;aspect-ratio:1.8;border-radius:0;flex-shrink:0;width:auto;height:800px;margin:0;position:relative;overflow:hidden}#__62{object-fit:cover;width:100%;height:100%;position:absolute;inset:0}#_1100_{--f2w-order:14;aspect-ratio:1.78;border-radius:0;flex-shrink:0;width:auto;height:810px;margin:0;position:relative;overflow:hidden}#__63{object-fit:cover;width:100%;height:100%;position:absolute;inset:0}#_201_{--f2w-order:0;background-color:#000;border-radius:0;flex-shrink:0;width:100%;height:884px;margin:0;position:relative;overflow:hidden}#Frame_1{--f2w-order:0;border-radius:0;width:1440px;height:885px;position:absolute;top:0;left:0}#folio02line{--f2w-order:0;aspect-ratio:1.63;border-radius:0;width:auto;height:885px;position:absolute;top:0;left:0;overflow:hidden}#__0{object-fit:cover;width:100%;height:100%;position:absolute;inset:0}#folio02mail{--f2w-order:1;aspect-ratio:1;border-radius:0;width:auto;height:22.5px;position:absolute;top:82.1px;right:500.3px;overflow:hidden}#__1S{object-fit:cover;width:100%;height:100%;position:absolute;inset:0}#folio02phone{--f2w-order:2;aspect-ratio:1;border-radius:0;width:auto;height:22.5px;position:absolute;top:82.1px;left:1239px;overflow:hidden}#__2S{object-fit:cover;width:100%;height:100%;position:absolute;inset:0}#_200_2{--f2w-order:3;aspect-ratio:1.63;border-radius:0;width:auto;height:884px;position:absolute;top:0;left:calc(50% - 720px);overflow:hidden}#__3S{object-fit:cover;width:100%;height:100%;position:absolute;inset:0}#_4011{--f2w-order:1;background-color:#000;border-radius:0;flex-shrink:0;width:100%;height:944px;margin:0;position:relative;overflow:hidden}#_4011_1{--f2w-order:0;aspect-ratio:1.52;border-radius:0;width:auto;height:945px;position:absolute;top:0;left:0;overflow:hidden}#__4{object-fit:cover;width:100%;height:100%;position:absolute;inset:0}#folio32weblogo2{--f2w-order:1;aspect-ratio:1;border-radius:0;width:8%;height:auto;position:absolute;top:calc(50% - 47.5px);left:39.3%;right:52.7%;overflow:hidden}#__5{object-fit:cover;width:100%;height:100%;position:absolute;inset:0}#_8051{--f2w-order:2;background-color:#fff;border-radius:0;flex-shrink:0;width:100%;height:900px;margin:0;position:relative;overflow:hidden}#_0805_1{--f2w-order:0;aspect-ratio:1.6;border-radius:0;width:auto;height:900px;position:absolute;top:0;left:0;overflow:hidden}#__6S{object-fit:cover;width:100%;height:100%;position:absolute;inset:0}#folio23ABC{--f2w-order:1;aspect-ratio:3.52;border-radius:0;width:auto;height:180px;position:absolute;top:315px;left:717.8px;overflow:hidden}#__7S{object-fit:cover;width:100%;height:100%;position:absolute;inset:0}#folioloading{--f2w-order:1;aspect-ratio:3.52;border-radius:0;width:164px;height:164px;position:absolute;top:465px;left:1040px;overflow:hidden}#__8S{object-fit:cover;width:100%;height:100%;position:absolute;inset:0}#folioairobot{--f2w-order:1;aspect-ratio:3.52;border-radius:0;width:330px;height:93.5px;position:absolute;top:325px;left:147px;overflow:hidden}#__9S{object-fit:cover;width:100%;height:100%;position:absolute;inset:0}</style>
   <style>
     body {
       margin: 0;
-      background-color: #f0f0f0; /* 两边灰色背景 f0f0f0 191919*/
+      background-color: #191919; /* 两边灰色背景 f0f0f0 191919*/
     }
 
     /* 整体容器，限制最大宽度并居中 */
@@ -155,7 +155,6 @@
       <img src="cdn-cgi/608.webp" alt="608" id="__29" loading="lazy" decoding="async">
     </div>
 
-
  <!-- 替换动态
     <div id="_609" class="pointer-events-none">
       <img src="cdn-cgi/609.webp" alt="609" id="__30" loading="lazy" decoding="async">
@@ -170,14 +169,23 @@
       </div>
     </div>
 
-
-
     <div id="_610" class="pointer-events-none">
       <img src="cdn-cgi/610.webp" alt="610" id="__31" loading="lazy" decoding="async">
     </div>
+ <!-- 替换动态
     <div id="_611" class="pointer-events-none">
       <img src="cdn-cgi/611.webp" alt="611" id="__32" loading="lazy" decoding="async">
     </div>
+-->
+    <div id="_611">
+      <div id="_611" class="pointer-events-none">
+        <img src="cdn-cgi/611.webp" alt="611" id="__32" loading="lazy" decoding="async">
+      </div>
+      <div id="folioairobot" class="pointer-events-none">
+        <img src="cdn-cgi/airobot.webp" alt="loadig" id="__9S" loading="lazy" decoding="async">
+      </div>
+    </div>
+
     <div id="_612" class="pointer-events-none">
       <img src="cdn-cgi/612.webp" alt="612" id="__33" loading="lazy" decoding="async">
     </div>
